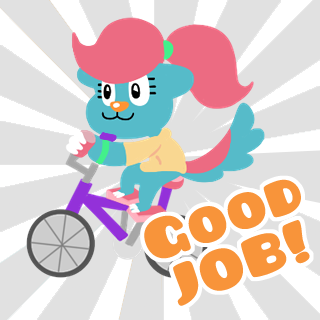
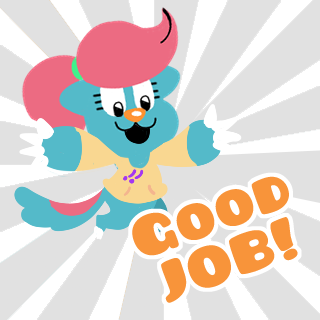
Matching Good Job Stills Background With Grey Color

diff --git a/Kali/ios/KaliWatchApp Extension/MainController.swift b/Kali/ios/KaliWatchApp Extension/MainController.swift
@@ -446,7 +446,13 @@ class MainController: WKInterfaceController
         playSoundLowAudioSync(soundName: "Letter\(currentLetter)Object")
     }
 
-    private func displayStaticContent(texture: SKTexture)
+    enum BackgroundColor
+    {
+        case purple
+        case grey
+    }
+
+    private func displayStaticContent(texture: SKTexture, backgroundColor: BackgroundColor = .purple)
     {
         guard 
             let kaliScene = kaliScene,
@@ -459,9 +465,18 @@ class MainController: WKInterfaceController
             return
         }
 
+        // NOTE: (Ted)  Grey Color is 218, 218, 218.
+
         kaliNode.removeAllActions()
         kaliNode.texture = texture 
-        backgroundColorNode.color = UIColor(red: 73/255, green: 48/255, blue: 105/255, alpha: 1)
+
+        switch backgroundColor {
+        case .purple:
+            backgroundColorNode.color = UIColor(red: 73/255, green: 48/255, blue: 105/255, alpha: 1)
+        case .grey:
+            backgroundColorNode.color = UIColor(red: 225/255, green: 225/255, blue: 225/255, alpha: 1)
+        }
+
     }
            
     private func congratulateIfLoadedIfNotChangeLetter()
@@ -512,13 +527,14 @@ class MainController: WKInterfaceController
                 audioFilename = "Kali_GoodJob_04b"
             }
 
-            let randomNumber = Int(arc4random_uniform(8))
+            let randomNumber = Int(arc4random_uniform(7))
 
-            if randomNumber < 7
+            if randomNumber < 6
             {
                 // NOTE: (Ted)  Use any of the still images. Make that a tap to keep going.
                 audioFilename = "Kali_KeepGoing_04"
-                displayStaticContent(texture: goodJobStillsAtlas.textureNamed("\(randomNumber)"))
+                displayStaticContent(texture: goodJobStillsAtlas.textureNamed("\(randomNumber)"), 
+                                     backgroundColor: .grey)
                 isAnimatedCongratulation = false
             } else
             {
@@ -649,7 +665,7 @@ extension MainController: AVAudioPlayerDelegate
                 switch congratulationType {
                 case .long: break
                 case .short:
-                    playCurrentLetter()
+                    changeLetterAndPlayIt()
                 }
             }
 
